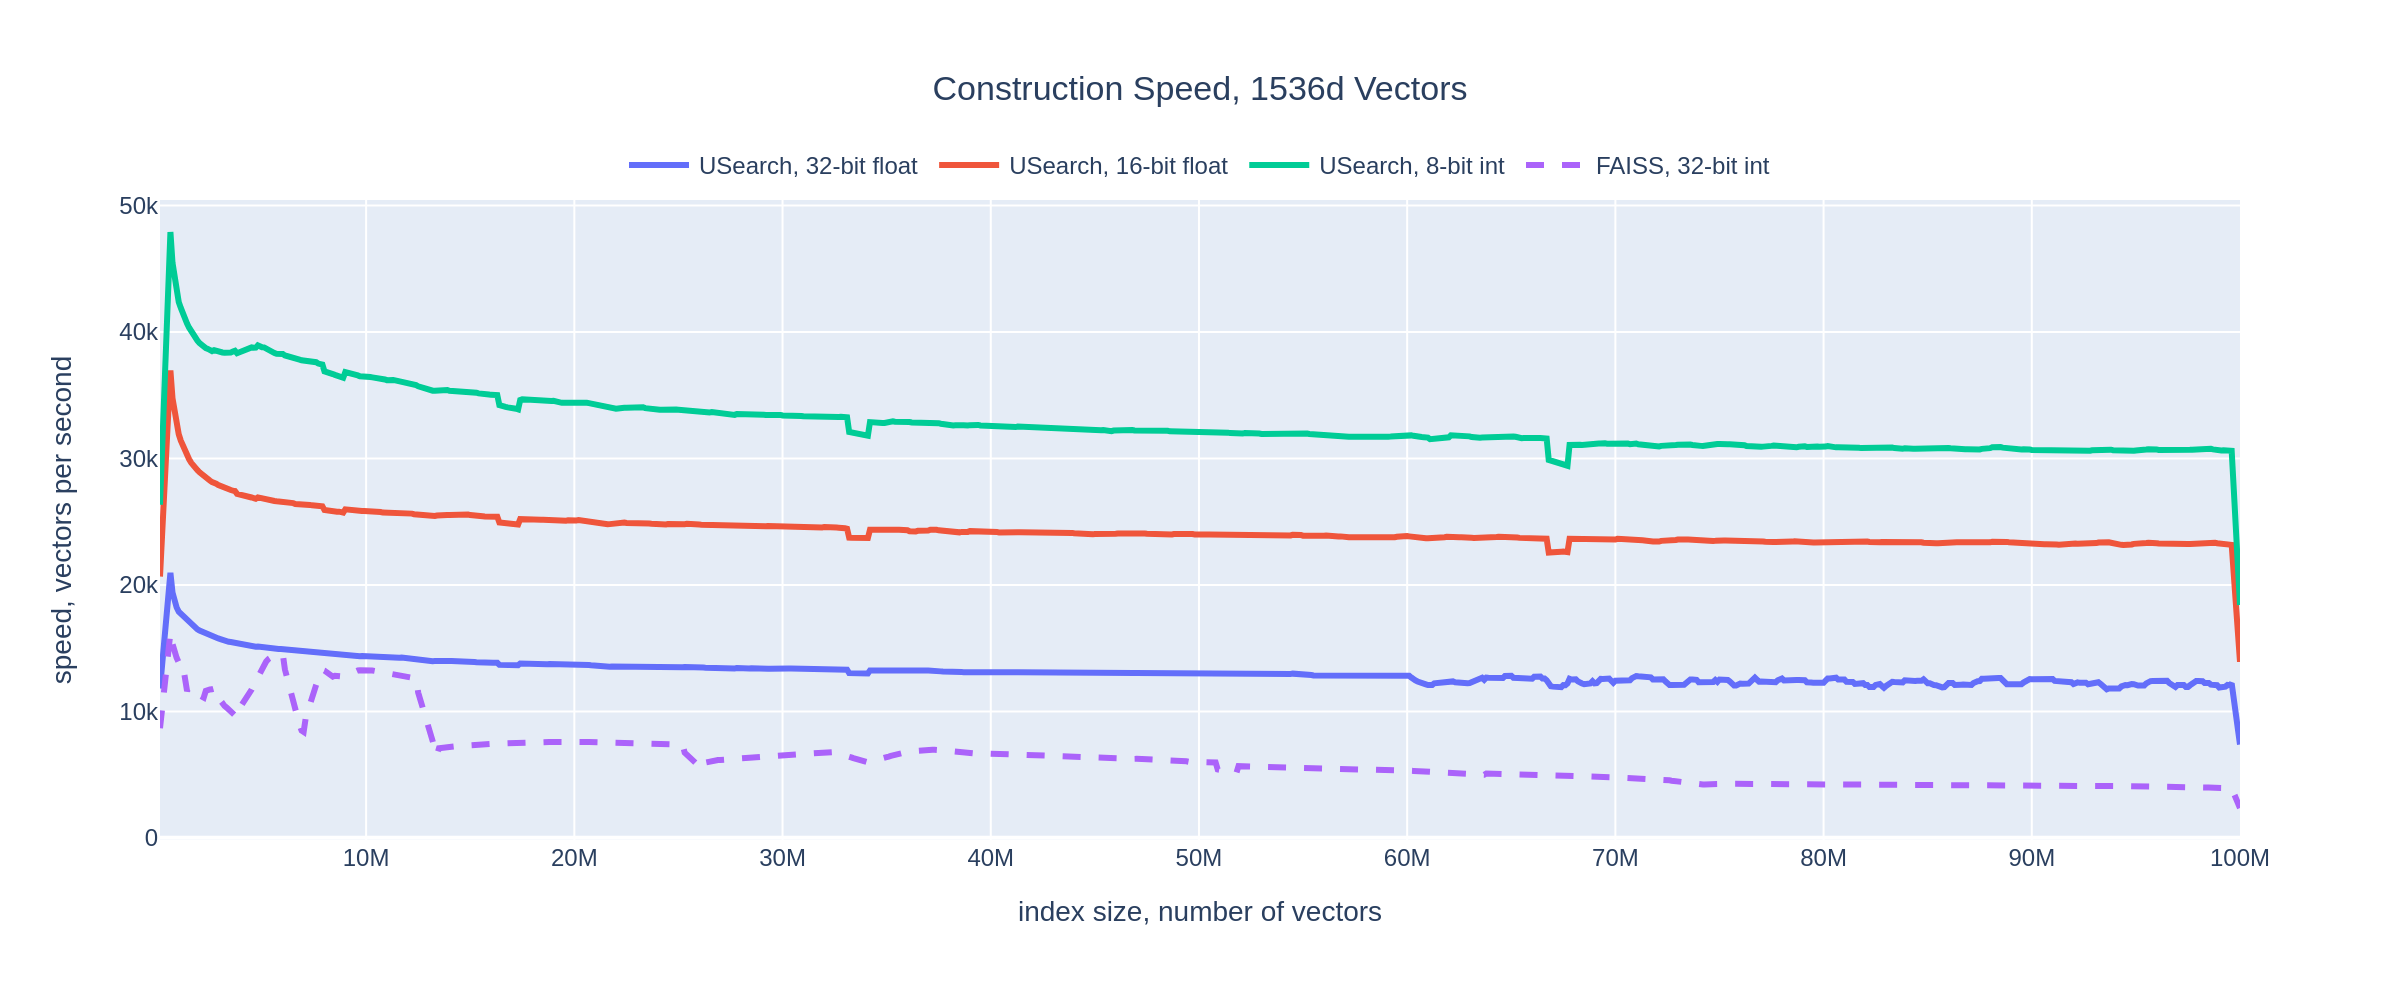
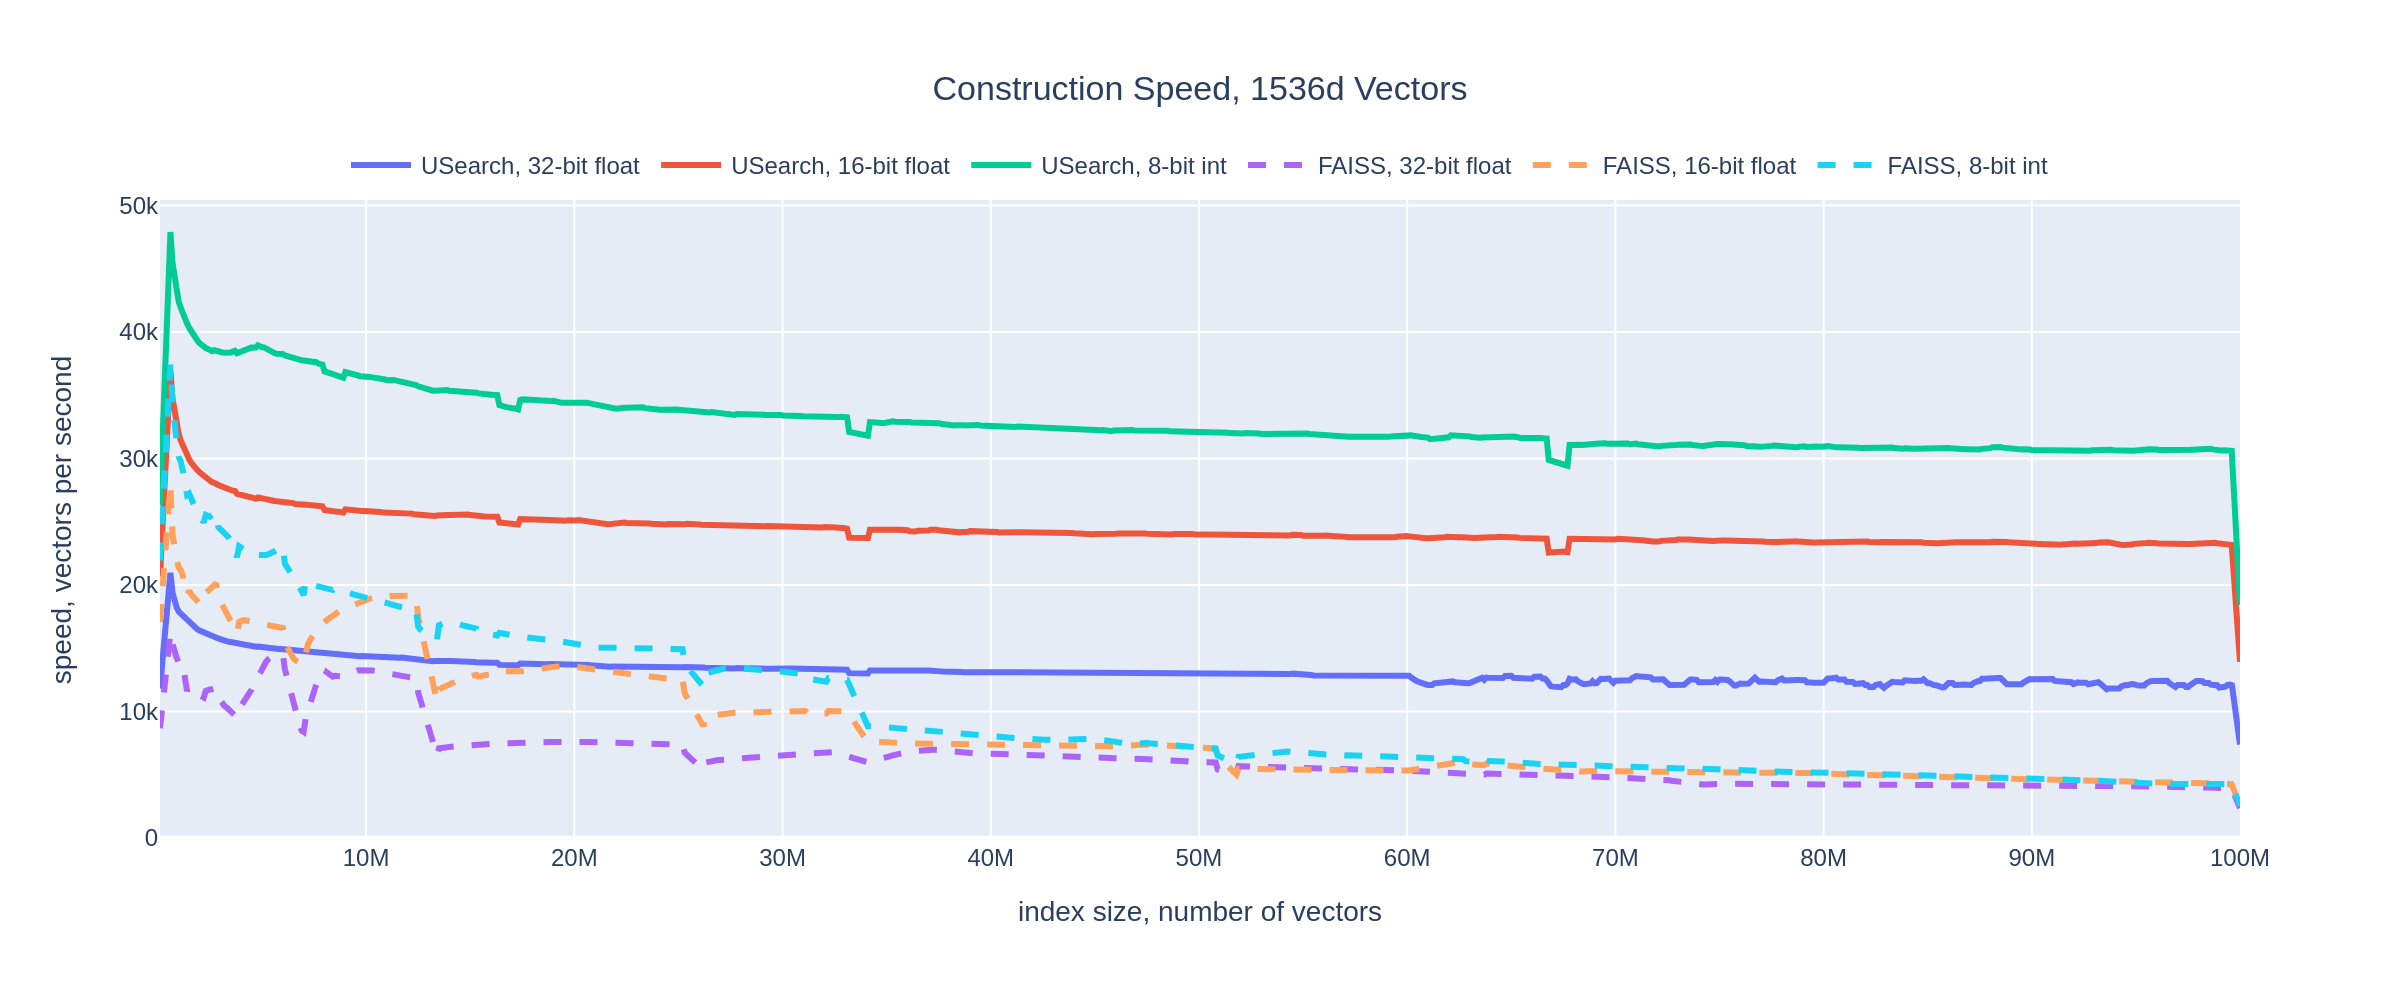
Add: FAISS 1536d stats and plots

diff --git a/utils/draw_plots.py b/utils/draw_plots.py
@@ -48,8 +48,8 @@ ADA_INDEX_NAMES = (
     "USearch-HNSW-f16-1536d",
     "USearch-HNSW-i8-1536d",
     "FAISS-HNSW-f32-1536d",
-    # "FAISS-HNSW-f16-1536d",
-    # "FAISS-HNSW-i8-1536d",
+    "FAISS-HNSW-f16-1536d",
+    "FAISS-HNSW-i8-1536d",
 )
 
 SLOW_INDEX_NAMES = ("Qdrant", "Weaviate")
@@ -79,7 +79,9 @@ NAME_MAPPING = {
     "USearch-HNSW-f32-1536d": "USearch, 32-bit float",
     "USearch-HNSW-f16-1536d": "USearch, 16-bit float",
     "USearch-HNSW-i8-1536d": "USearch, 8-bit int",
-    "FAISS-HNSW-f32-1536d": "FAISS, 32-bit int",
+    "FAISS-HNSW-f32-1536d": "FAISS, 32-bit float",
+    "FAISS-HNSW-f16-1536d": "FAISS, 16-bit float",
+    "FAISS-HNSW-i8-1536d": "FAISS, 8-bit int",
     "HNSWLIB": "HNSWLIB",
     "FAISS-Exact": "FAISS(Exact)",
     "SCANN": "SCANN",
